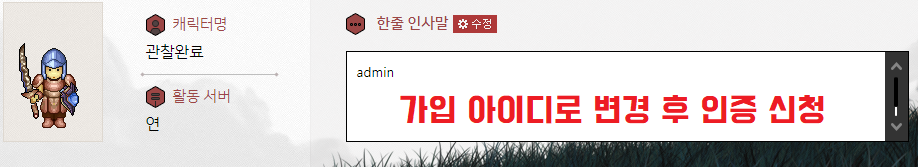
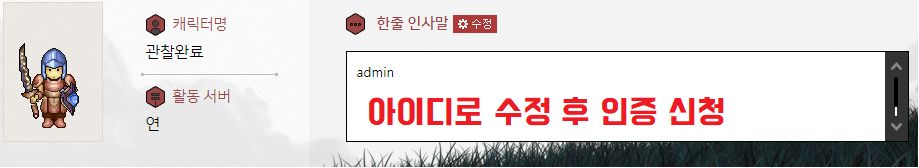
update chgPassword

Changed region(s): [[0.3961, 0.5655, 0.914, 0.7738]]

diff --git a/src/components/User/ChagnePassword.tsx b/src/components/User/ChagnePassword.tsx
@@ -1,4 +1,4 @@
-import React from "react";
+import React, { useState } from "react";
 import { useSetRecoilState } from "recoil";
 import { MyAlertState, MyBackdropState } from "state/index";
 
@@ -15,11 +15,9 @@ interface IProps {
 }
 
 const useStyles = makeStyles(theme => ({
-  form: {
-    marginTop: 10,
-  },
   text: {
-    margin: "auto",
+    marginBottom: "11px",
+    lineHeight: "40px",
     verticalAlign: "middle",
   },
 }));
@@ -33,9 +31,72 @@ function ChagnePassword(props: IProps) {
   const setMyAlert = useSetRecoilState(MyAlertState);
   const setMyBackdrop = useSetRecoilState(MyBackdropState);
 
-  const [password, setPassword] = React.useState("");
-  const [chgPassword, setChgPassword] = React.useState("");
-  const [chgPasswordConfirm, ssetChgPasswordConfirm] = React.useState("");
+  const [password, setPassword] = useState("");
+  const [chgPassword, setChgPassword] = useState("");
+  const [chgPasswordConfirm, ssetChgPasswordConfirm] = useState("");
+
+  const [checkPassword, setCheckPassword] = useState(false);
+  const [checkChgPassword, setCheckChgPassword] = useState(false);
+
+  const verifyPassword = (input: string) => {
+    var pattern1 = /[0-9]/; // 숫자
+    var pattern2 = /[a-zA-Z]/; // 문자
+    var pattern3 = /[`~!@#$%^&*()_+|<>?:{} ]/; // 특수문자
+    var pa1 = false;
+    var pa2 = false;
+    var pa3 = false;
+
+    if (input === "") {
+      setPassword("");
+      setCheckPassword(true);
+      return;
+    }
+
+    setPassword(input);
+
+    for (let i = 0; i < input.length; i++) {
+      let letters = input.charAt(i);
+      if (pattern1.test(letters)) pa1 = true;
+      if (pattern2.test(letters)) pa2 = true;
+      if (pattern3.test(letters)) pa3 = true;
+    }
+
+    if (pa1 === true && pa2 === true && pa3 === true && input.length > 7) {
+      setCheckPassword(true);
+    } else {
+      setCheckPassword(false);
+    }
+  };
+
+  const verifyChangePassword = (input: string) => {
+    var pattern1 = /[0-9]/; // 숫자
+    var pattern2 = /[a-zA-Z]/; // 문자
+    var pattern3 = /[`~!@#$%^&*()_+|<>?:{} ]/; // 특수문자
+    var pa1 = false;
+    var pa2 = false;
+    var pa3 = false;
+
+    if (input === "") {
+      setChgPassword("");
+      setCheckChgPassword(true);
+      return;
+    }
+
+    setChgPassword(input);
+
+    for (let i = 0; i < input.length; i++) {
+      let letters = input.charAt(i);
+      if (pattern1.test(letters)) pa1 = true;
+      if (pattern2.test(letters)) pa2 = true;
+      if (pattern3.test(letters)) pa3 = true;
+    }
+
+    if (pa1 === true && pa2 === true && pa3 === true && input.length > 7) {
+      setCheckChgPassword(true);
+    } else {
+      setCheckChgPassword(false);
+    }
+  };
 
   const _onEnterPassword = (keyCode: number) => {
     if (keyCode === 13) {
@@ -81,69 +142,81 @@ function ChagnePassword(props: IProps) {
       <Typography variant='h4' style={{ margin: "10px 0 30px 0" }}>
         비밀번호 변경
       </Typography>
-      <Grid container item xs={12} spacing={2} className={classes.form}>
-        <Grid item xs={3} className={classes.text}>
-          기존 비밀번호
+      <Grid container spacing={2} style={{ margin: "0", padding: "0" }}>
+        <Grid container item xs={12} spacing={2} style={{ height: "60px", margin: "5px 0", padding: "0 10px", float: "left" }}>
+          <Grid item xs={3} className={classes.text}>
+            기존 비밀번호
+          </Grid>
+          <Grid item xs={6}>
+            <TextField
+              variant='outlined'
+              error={password !== "" && checkPassword === false}
+              helperText={password !== "" && checkPassword === false ? "숫자/문자/특수문자를 모두 포함해야 합니다." : ""}
+              required
+              fullWidth
+              autoFocus={true}
+              size='small'
+              name='password'
+              id='password'
+              type='password'
+              value={password}
+              onChange={e => verifyPassword(e.target.value)}
+            />
+          </Grid>
+          <Grid item xs={3}></Grid>
         </Grid>
-        <Grid item xs={6}>
-          <TextField
-            variant='outlined'
-            required
-            fullWidth
-            autoFocus={true}
-            size='small'
-            name='password'
-            id='password'
-            type='password'
-            value={password}
-            onChange={e => setPassword(e.target.value)}
-          />
+        <Grid container item xs={12} spacing={2} style={{ height: "60px", margin: "5px 0", padding: "0 10px", float: "left" }}>
+          <Grid item xs={3} className={classes.text}>
+            신규 비밀번호
+          </Grid>
+          <Grid item xs={6}>
+            <TextField
+              variant='outlined'
+              error={chgPassword !== "" && checkChgPassword === false}
+              helperText={chgPassword !== "" && checkChgPassword === false ? "숫자/문자/특수문자를 모두 포함해야 합니다." : ""}
+              required
+              fullWidth
+              size='small'
+              name='password'
+              id='password'
+              type='password'
+              value={chgPassword}
+              onChange={e => verifyChangePassword(e.target.value)}
+            />
+          </Grid>
+          <Grid item xs={3}></Grid>
         </Grid>
-        <Grid item xs={3}></Grid>
-        <Grid item xs={3} className={classes.text}>
-          신규 비밀번호
+        <Grid container item xs={12} spacing={2} style={{ height: "60px", margin: "5px 0", padding: "0 10px", float: "left" }}>
+          <Grid item xs={3} className={classes.text}>
+            신규 비밀번호 확인
+          </Grid>
+          <Grid item xs={6}>
+            <TextField
+              error={chgPasswordConfirm !== "" && chgPassword !== chgPasswordConfirm}
+              helperText={chgPasswordConfirm !== "" && chgPassword !== chgPasswordConfirm ? "비밀번호가 일치하지 않습니다." : ""}
+              variant='outlined'
+              required
+              fullWidth
+              size='small'
+              name='passwordConfrim'
+              id='passwordConfrim'
+              type='password'
+              value={chgPasswordConfirm}
+              onChange={e => ssetChgPasswordConfirm(e.target.value)}
+              onKeyUp={e => _onEnterPassword(e.keyCode)}
+            />
+          </Grid>
+          <Grid item xs={3}></Grid>
         </Grid>
-        <Grid item xs={6}>
-          <TextField
-            variant='outlined'
-            required
-            fullWidth
-            size='small'
-            name='password'
-            id='password'
-            type='password'
-            value={chgPassword}
-            onChange={e => setChgPassword(e.target.value)}
-          />
+        <Grid container item xs={12} spacing={2} style={{ margin: "10px 0 0 0", padding: "0 10px", float: "left" }}>
+          <Grid item xs={3}></Grid>
+          <Grid item xs={6}>
+            <Button variant='contained' color='primary' fullWidth onClick={_onSave}>
+              변경
+            </Button>
+          </Grid>
+          <Grid item xs={3}></Grid>
         </Grid>
-        <Grid item xs={3}></Grid>
-        <Grid item xs={3} className={classes.text}>
-          신규 비밀번호 확인
-        </Grid>
-        <Grid item xs={6}>
-          <TextField
-            error={chgPasswordConfirm !== "" && chgPassword !== chgPasswordConfirm}
-            helperText={chgPasswordConfirm !== "" && chgPassword !== chgPasswordConfirm ? "비밀번호가 일치하지 않습니다." : ""}
-            variant='outlined'
-            required
-            fullWidth
-            size='small'
-            name='passwordConfrim'
-            id='passwordConfrim'
-            type='password'
-            value={chgPasswordConfirm}
-            onChange={e => ssetChgPasswordConfirm(e.target.value)}
-            onKeyUp={e => _onEnterPassword(e.keyCode)}
-          />
-        </Grid>
-        <Grid item xs={3}></Grid>
-        <Grid item xs={3}></Grid>
-        <Grid item xs={6}>
-          <Button variant='contained' color='primary' fullWidth onClick={_onSave}>
-            변경
-          </Button>
-        </Grid>
-        <Grid item xs={3}></Grid>
       </Grid>
     </React.Fragment>
   );

diff --git a/src/components/User/AuthAccount.tsx b/src/components/User/AuthAccount.tsx
@@ -20,7 +20,6 @@ interface IProps {
 const useStyles = makeStyles(theme => ({
   text: {
     margin: "auto",
-    paddingLeft: "10px",
     fontWeight: "bold",
     verticalAlign: "middle",
   },
@@ -94,13 +93,20 @@ function AuthAccount(props: IProps) {
         캐릭터 인증
       </Typography>
       <Grid container spacing={2} style={{ margin: "0" }}>
-        <img src={baseUrlForAuth + "auth.png"} alt='예시' style={{ width: "100%" }} />
+        <img src={baseUrlForAuth + "auth.png"} alt='예시' style={{ width: "100%", margin: "5px 0" }} />
+        <Typography variant='h6' style={{ margin: "5px 0 0 0" }}>
+          ① 인증할 캐릭터의 호패 한줄 인사말을 바창 아이디로 저장
+        </Typography>
+        <Typography variant='h6' style={{ margin: "00" }}>
+          ② 서버와 캐릭터명을 입력 후 인증 신청
+        </Typography>
         <Divider style={{ width: "100%", height: "3px", margin: "10px 0" }} flexItem />
         <Grid container item xs={12}>
+          <Grid item xs={2}></Grid>
           <Grid item xs={3} className={classes.text}>
             서버
           </Grid>
-          <Grid item xs={6}>
+          <Grid item xs={4}>
             <TextField
               variant='outlined'
               required
@@ -117,10 +123,11 @@ function AuthAccount(props: IProps) {
           <Grid item xs={3}></Grid>
         </Grid>
         <Grid container item xs={12}>
+          <Grid item xs={2}></Grid>
           <Grid item xs={3} className={classes.text}>
-            닉네임
+            캐릭터명
           </Grid>
-          <Grid item xs={6}>
+          <Grid item xs={4}>
             <TextField
               variant='outlined'
               required
@@ -137,10 +144,11 @@ function AuthAccount(props: IProps) {
           <Grid item xs={3}></Grid>
         </Grid>
         <Grid container item xs={12}>
+          <Grid item xs={2}></Grid>
           <Grid item xs={3}></Grid>
-          <Grid item xs={6}>
+          <Grid item xs={4}>
             <Button variant='contained' color='primary' fullWidth disabled={isDisabled} onClick={_onAuthRequest}>
-              {isDisabled ? "인증 중입니다." : "인증신청"}
+              {isDisabled ? "인증 중입니다." : "인증 신청"}
             </Button>
           </Grid>
           <Grid item xs={3}></Grid>

diff --git a/src/components/User/WithdrawUser.tsx b/src/components/User/WithdrawUser.tsx
@@ -87,13 +87,12 @@ function WithdrawUser(props: IProps) {
           <React.Fragment>
             <Grid item xs={12}>
               <Typography variant='h6' color='error'>
-                주의!
+                주의 사항
               </Typography>
               <Typography variant='body1' gutterBottom>
-                {id} 회원 탈퇴를 진행합니다. <br />
+                {id} 의 탈퇴를 진행합니다. <br />
                 탈퇴 후에도 작성한 글은 지워지지 않습니다. <br />
-                탈퇴한 정보는 보관하지 않으며 따라서 복구할 수 없습니다. <br />
-                비밀번호 입력 후 탈퇴를 진행합니다.
+                탈퇴시 저장된 정보는 폐기되며 복구할 수 없습니다. <br />
               </Typography>
             </Grid>
             <Grid container item xs={12}>

diff --git a/src/pages/User/MyInfo.tsx b/src/pages/User/MyInfo.tsx
@@ -24,6 +24,7 @@ const useStyles = makeStyles(theme => ({
     float: "left",
   },
   rightSection: {
+    minWidth: "795px",
     padding: "0 0 0 30px",
   },
 }));
@@ -94,8 +95,8 @@ function MyInfo({ match }: any) {
       {isNoSignInUser ? (
         <NoSignInUser />
       ) : (
-        <Container className={classes.root} component='main'>
-          <Grid container>
+        <Container component='main'>
+          <Grid container className={classes.root}>
             <Grid item xs={2}>
               <MenuList style={{ outline: "none" }}>
                 <Menus onClick={_onViewUser}>회원 정보</Menus>

diff --git a/src/components/User/AccountInfo.tsx b/src/components/User/AccountInfo.tsx
@@ -3,7 +3,6 @@ import { useSetRecoilState } from "recoil";
 import { MyAlertState } from "state/index";
 
 import { makeStyles } from "@material-ui/core/styles";
-import Container from "@material-ui/core/Container";
 import Grid from "@material-ui/core/Grid";
 import Typography from "@material-ui/core/Typography";
 import Radio from "@material-ui/core/Radio";
